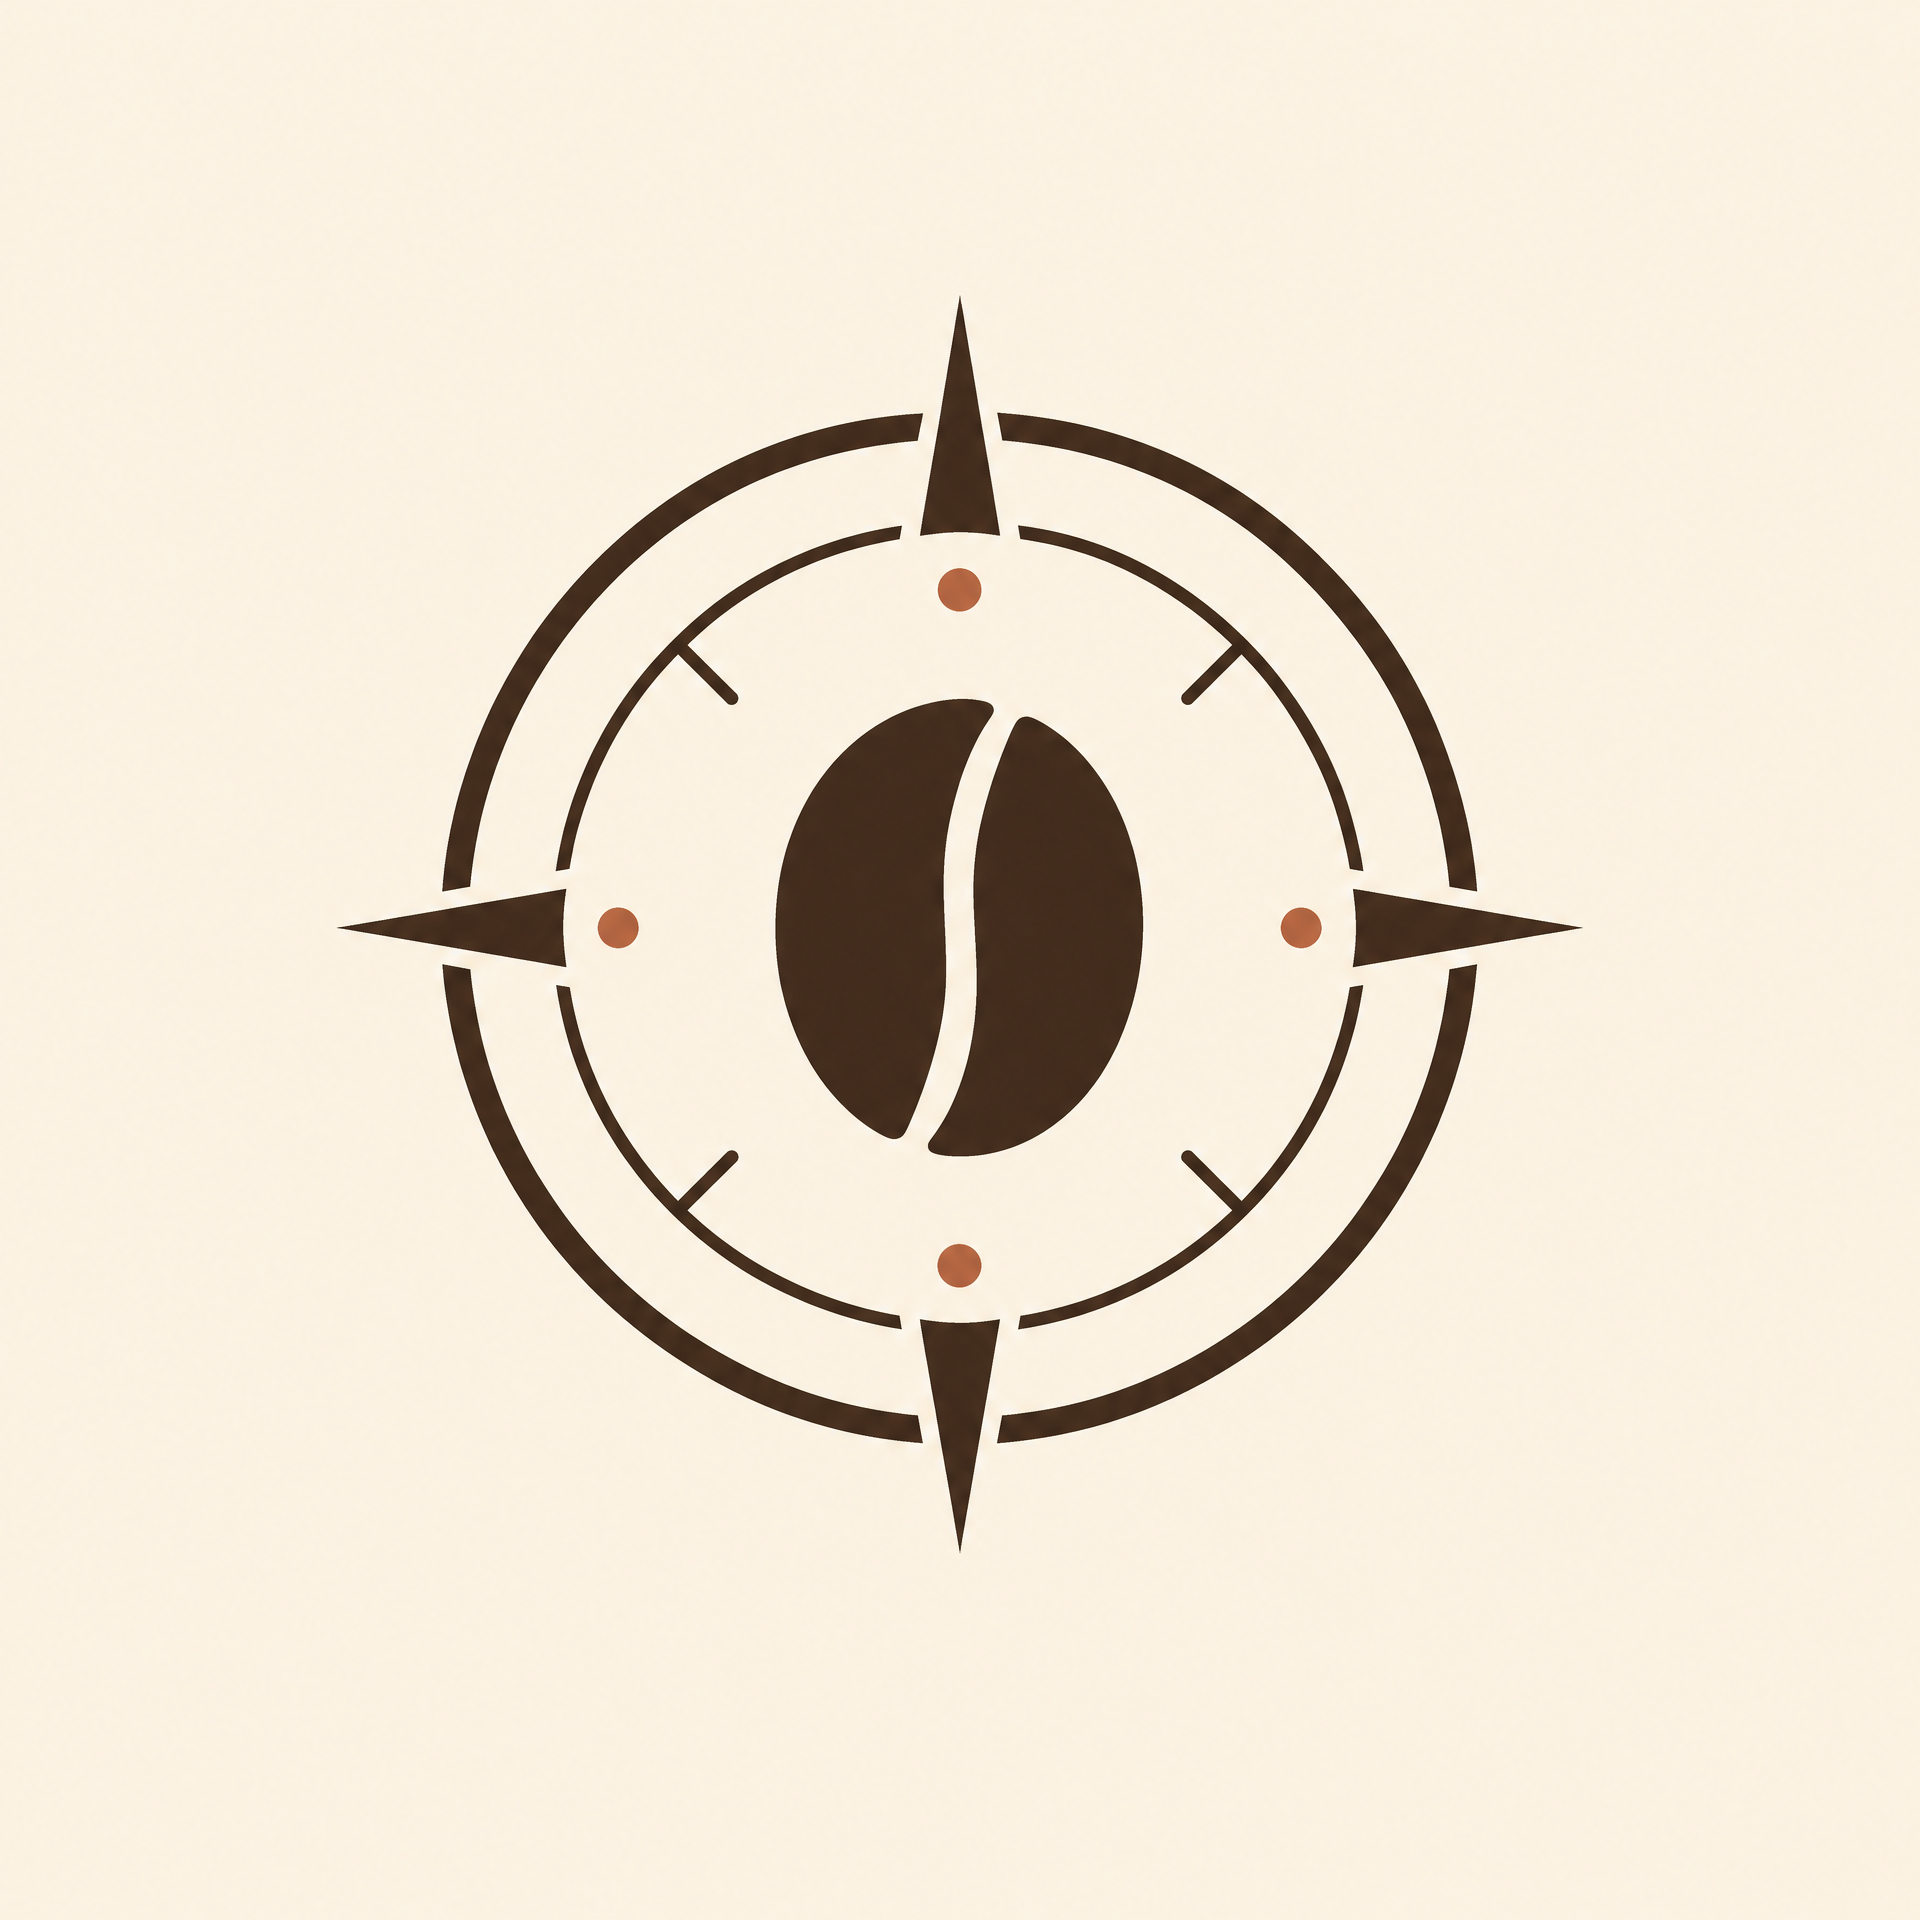
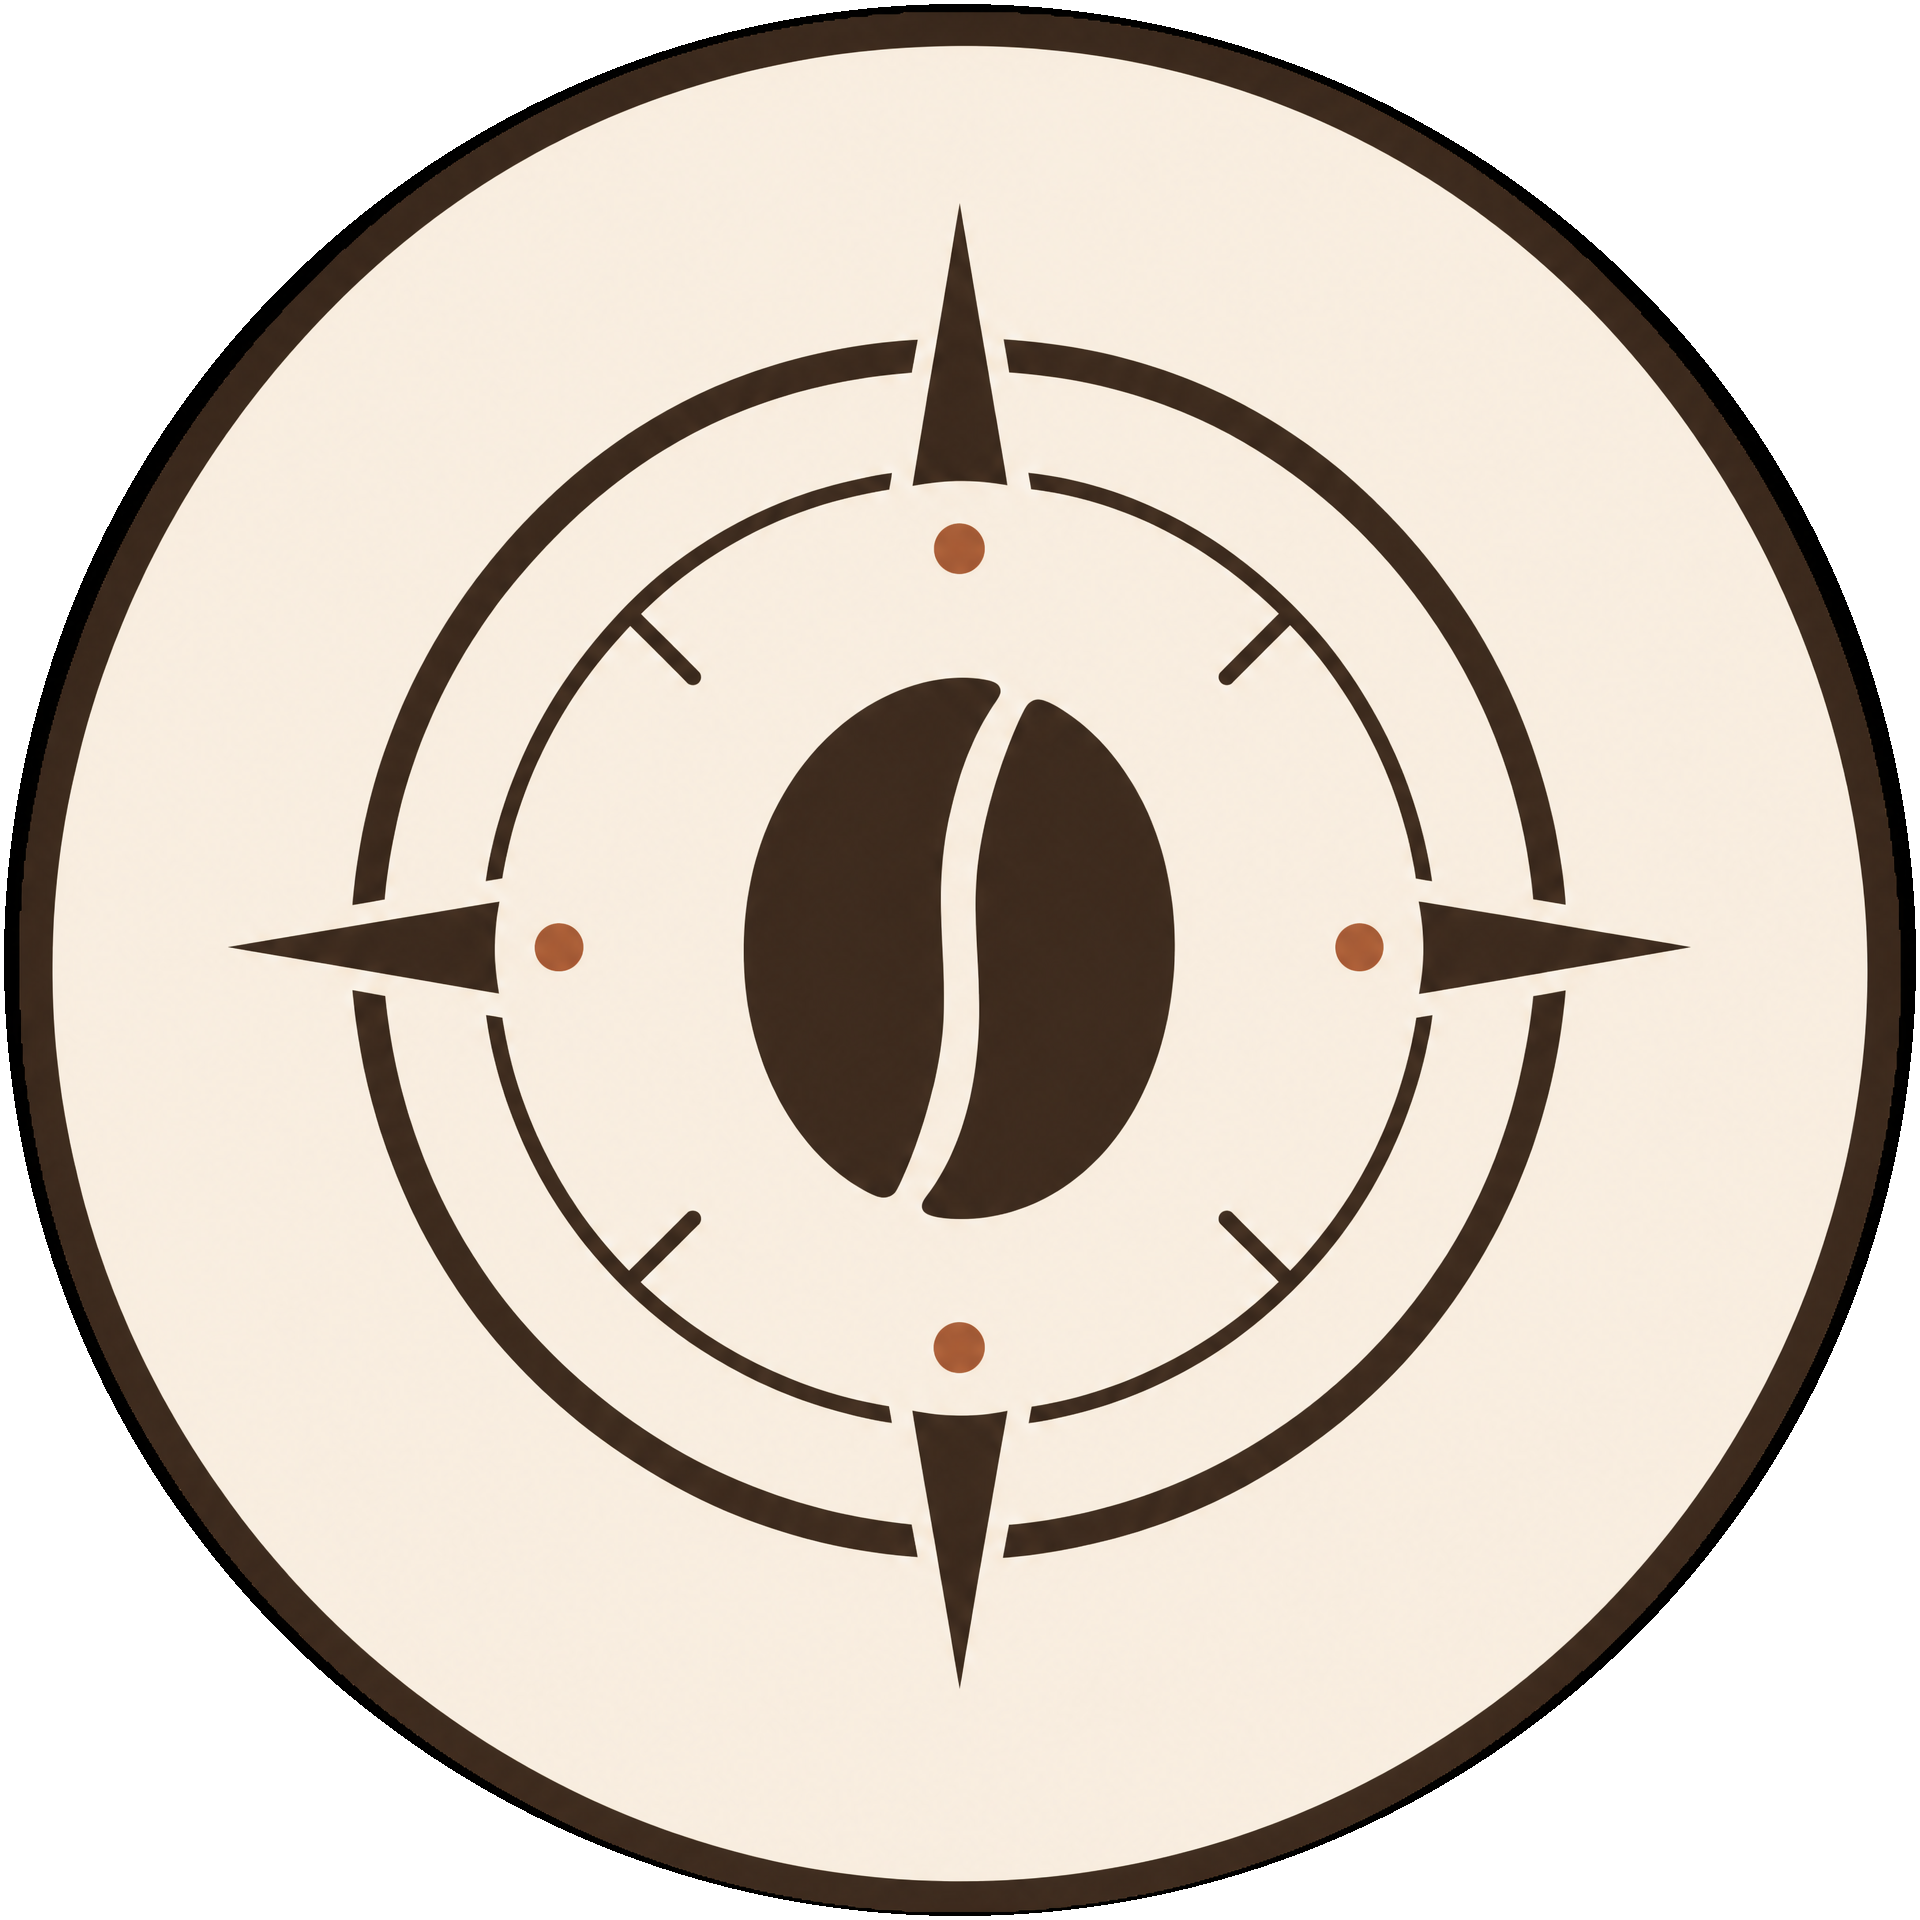
Use circular Atlas Cafe branding

diff --git a/src/routes/__root.tsx b/src/routes/__root.tsx
@@ -86,7 +86,9 @@ export const Route = createRootRouteWithContext<{ queryClient: QueryClient }>()(
       },
       { property: "og:site_name", content: "Atlas Café" },
       { property: "og:type", content: "website" },
+      { property: "og:image", content: "/atlas-cafe-mark.png" },
       { name: "twitter:card", content: "summary_large_image" },
+      { name: "twitter:image", content: "/atlas-cafe-mark.png" },
     ],
     links: [
       { rel: "stylesheet", href: appCss },
@@ -96,7 +98,8 @@ export const Route = createRootRouteWithContext<{ queryClient: QueryClient }>()(
         rel: "stylesheet",
         href: "https://fonts.googleapis.com/css2?family=Fraunces:opsz,wght@9..144,400;9..144,600;9..144,700&family=Inter:wght@400;500;600&family=JetBrains+Mono:wght@400;500&display=swap",
       },
-      { rel: "icon", href: "/favicon.ico", type: "image/x-icon" },
+      { rel: "icon", href: "/atlas-cafe-mark.png", type: "image/png" },
+      { rel: "apple-touch-icon", href: "/atlas-cafe-mark.png" },
     ],
   }),
   shellComponent: RootShell,
